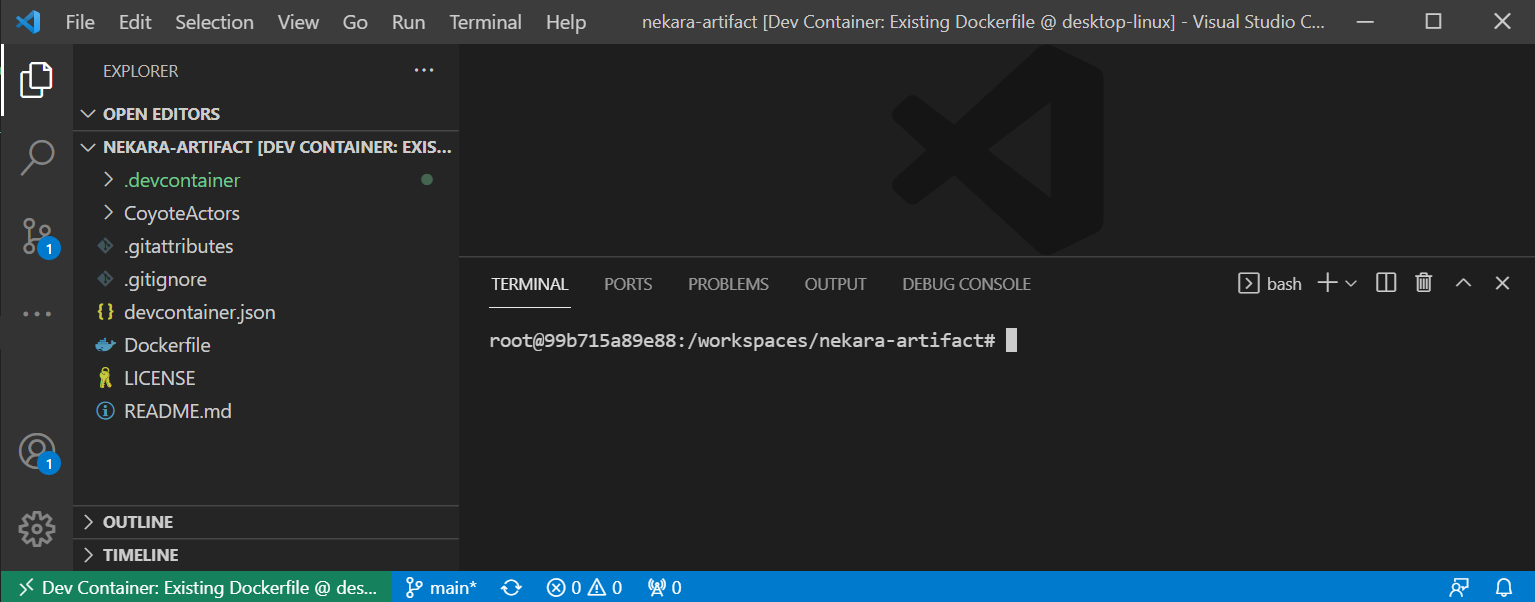
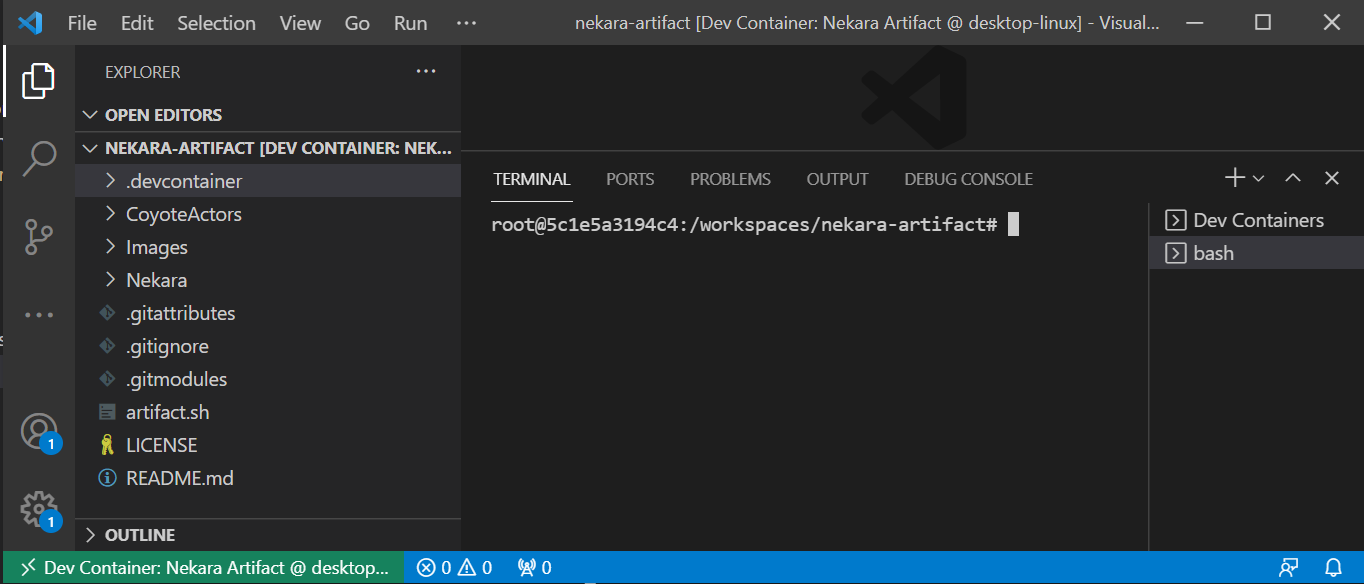
edits

diff --git a/README.md b/README.md
@@ -80,30 +80,25 @@ Click "Install" to install the extension.
 
 ### Building and opening the artifact in VS Code
 
-Now you are ready to connect to the artifact container in VS Code by using this
-[link](https://open.vscode.dev/pdeligia/nekara-artifact) and selecting the "Clone repo in container
-volume" option (see highlighted button on the right side in the image below).
-
-![Open in VS Code](Images/vs-code-open-repo.png)
+Now you are ready to connect to the artifact container in VS Code by clicking this
+[link](vscode://ms-vscode-remote.remote-containers/cloneInVolume?url=https://github.com/pdeligia/nekara-artifact).
+This uses the "Open in VS Code" feature of GitHub.
 
 **Note:** If your browser asks you if you want to allow the website to open VS Code, press allow or
-open. Next, if VS Code asks you if you want to allow the extension to open the URI, then press Open
-again.
+open. If VS Code asks you if you want to allow the extension to open the URI, then also press Open.
 
-VS Code will ask you how to create your container configuration. Select `From 'DockerFile'` (second
-option) as in the following image:
+A new VS Code window will open (might take a few seconds) and the artifact container will start
+automatically building using the [container configuration scripts](.devcontainer). You will be able
+to see the build process on the VS Code terminal in the bottom right panel. During this time please
+refrain from canceling the build process to make sure it completes successfully. This process can
+take several minutes. Once it finishes, you should now be connected to the container.
 
-![VS Code Configuration](Images/vs-code-configuration.png)
-
-It can take several minutes to build the artifact container before it connects to it. Once it
-finishes, you should now be connected to the container and able to see the workspace and an open
-terminal:
+You need to open a new `bash` terminal to be able to interact with the artifact. To do that select
+`Terminal` on the top panel and then select `New Terminal` (or use the keyboard shortcut ``Ctrl +
+Shift + ` ``). Your VS Code window should look like this (with an open terminal in the bottom right
+panel):
 
 ![VS Code Connected](Images/vs-code-connected.png)
-
-**Note:** If the bash terminal in the lower right panel is not already open, then select `Terminal`
-on the top panel and then select `New Terminal` (or use the keyboard shortcut ``Ctrl + Shift + `
-``).
 
 Now you are ready to [run the artifact](#running-the-artifact)!
 
